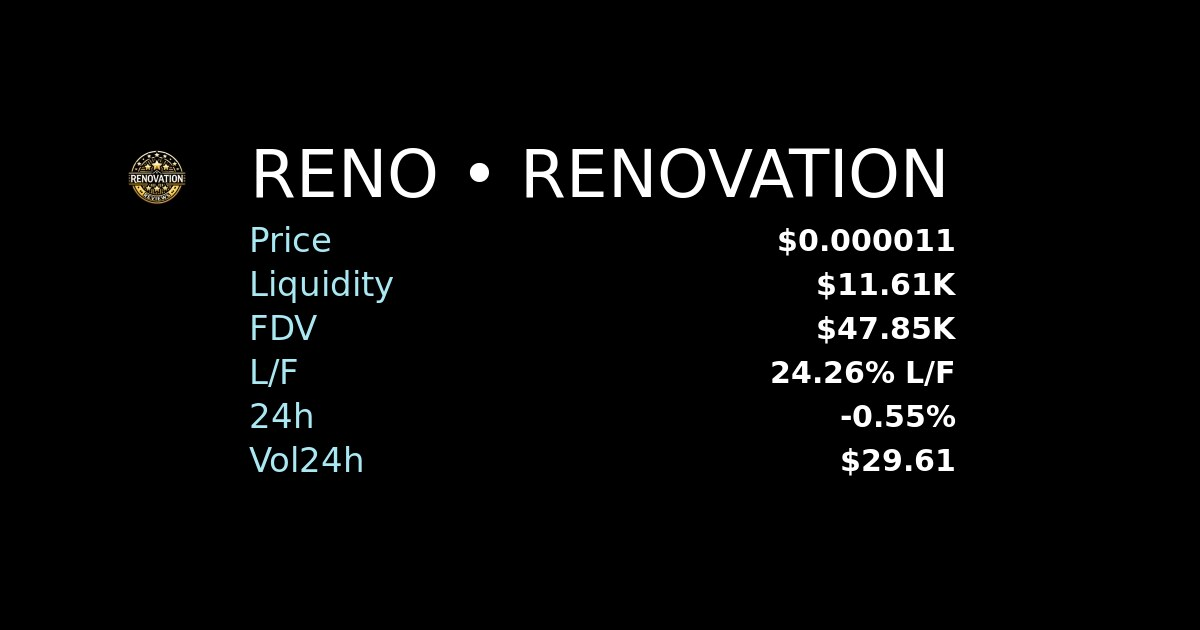
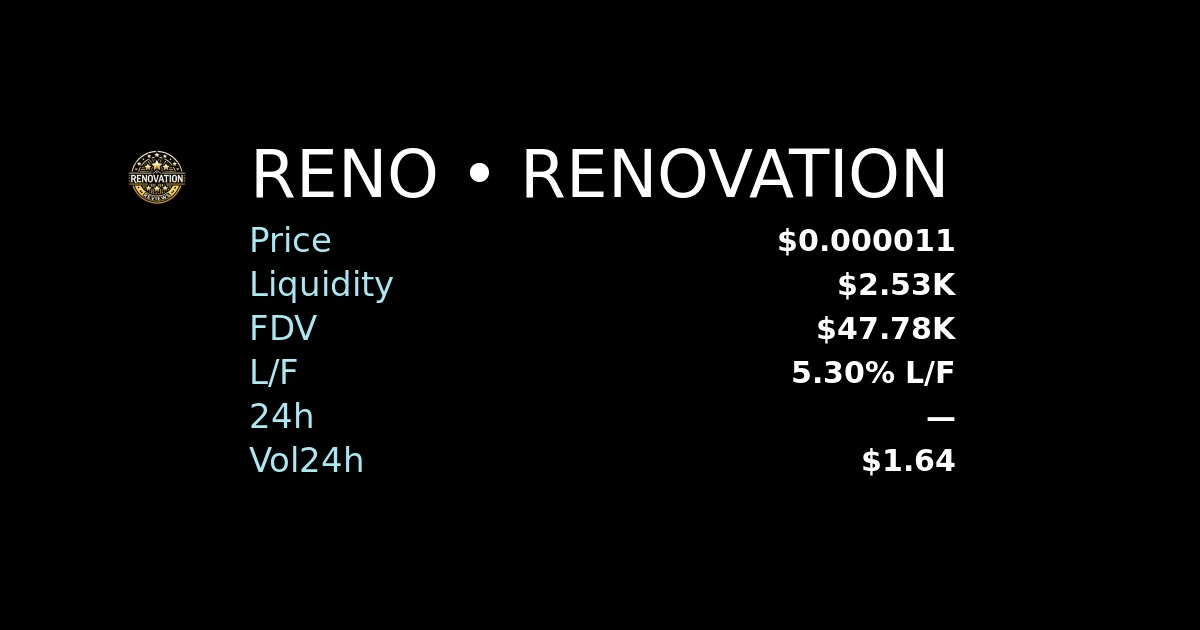
chore: update sitemap & token pages

Changed region(s): [[0.6783, 0.6333, 0.8017, 0.754], [0.6783, 0.4222, 0.7708, 0.5429], [0.6475, 0.573, 0.74, 0.6032]]

diff --git a/token/HBoNJ5v8g71s2boRivrHnfSB5MVPLDHHyVjruPfhGkvL/index.html b/token/HBoNJ5v8g71s2boRivrHnfSB5MVPLDHHyVjruPfhGkvL/index.html
@@ -4,14 +4,14 @@
     <meta charset="utf-8" />
     <meta name="viewport" content="width=device-width,initial-scale=1" />
     <title>PURPE on Solana</title>
-    <meta name="description" content="Purple Pepe • Price: $0.000058 • Liquidity: $1.29M" />
+    <meta name="description" content="Purple Pepe • Price: $0.000056 • Liquidity: $1.26M" />
     <meta name="author" content="builders-toronto" />
     <meta name="keywords" content="solana, memecoin, bonk, wif, dog, inu, pepe, cat, meme, ponk, samo, purry, purr, kitty, meow, woof, frog, snek, toad, bob, dino, monke, monkey, ape, corgi, floki, elon" />
 
     <!-- OG -->
     <meta property="og:type" content="website" />
     <meta property="og:title" content="PURPE on Solana" />
-    <meta property="og:description" content="Purple Pepe • Price: $0.000058 • Liquidity: $1.29M" />
+    <meta property="og:description" content="Purple Pepe • Price: $0.000056 • Liquidity: $1.26M" />
     <meta property="og:url" content="https://fdv.lol/token/HBoNJ5v8g71s2boRivrHnfSB5MVPLDHHyVjruPfhGkvL" />
     <meta property="og:image" content="https://fdv.lol/token/HBoNJ5v8g71s2boRivrHnfSB5MVPLDHHyVjruPfhGkvL/og.jpg" />
     <meta property="og:image:width" content="1200" />
@@ -21,7 +21,7 @@
     <!-- Twitter -->
     <meta name="twitter:card" content="summary_large_image" />
     <meta name="twitter:title" content="PURPE on Solana" />
-    <meta name="twitter:description" content="Purple Pepe • Price: $0.000058 • Liquidity: $1.29M" />
+    <meta name="twitter:description" content="Purple Pepe • Price: $0.000056 • Liquidity: $1.26M" />
     <meta name="twitter:image" content="https://fdv.lol/token/HBoNJ5v8g71s2boRivrHnfSB5MVPLDHHyVjruPfhGkvL/og.jpg" />
 
     <link rel="icon" type="image/png" href="/src/assets/images/icons/fdv.lol.ico" />
@@ -35,7 +35,7 @@
       "@type": "WebSite",
       "name": "PURPE on Solana",
       "url": "https://fdv.lol/token/HBoNJ5v8g71s2boRivrHnfSB5MVPLDHHyVjruPfhGkvL",
-      "description": "Purple Pepe • Price: $0.000058 • Liquidity: $1.29M",
+      "description": "Purple Pepe • Price: $0.000056 • Liquidity: $1.26M",
       "keywords": [
         "solana",
         "memecoin",

diff --git a/token/BrEiwuaLCuG7nG9bMuDg9ihp6sisvD6DCqNjrudHxmzg/index.html b/token/BrEiwuaLCuG7nG9bMuDg9ihp6sisvD6DCqNjrudHxmzg/index.html
@@ -4,14 +4,14 @@
     <meta charset="utf-8" />
     <meta name="viewport" content="width=device-width,initial-scale=1" />
     <title>RENO on Solana</title>
-    <meta name="description" content="RENOVATION • Price: $0.000011 • Liquidity: $11.61K" />
+    <meta name="description" content="RENOVATION • Price: $0.000011 • Liquidity: $2.53K" />
     <meta name="author" content="builders-toronto" />
     <meta name="keywords" content="solana, memecoin, bonk, wif, dog, inu, pepe, cat, meme, ponk, samo, purry, purr, kitty, meow, woof, frog, snek, toad, bob, dino, monke, monkey, ape, corgi, floki, elon" />
 
     <!-- OG -->
     <meta property="og:type" content="website" />
     <meta property="og:title" content="RENO on Solana" />
-    <meta property="og:description" content="RENOVATION • Price: $0.000011 • Liquidity: $11.61K" />
+    <meta property="og:description" content="RENOVATION • Price: $0.000011 • Liquidity: $2.53K" />
     <meta property="og:url" content="https://fdv.lol/token/BrEiwuaLCuG7nG9bMuDg9ihp6sisvD6DCqNjrudHxmzg" />
     <meta property="og:image" content="https://fdv.lol/token/BrEiwuaLCuG7nG9bMuDg9ihp6sisvD6DCqNjrudHxmzg/og.jpg" />
     <meta property="og:image:width" content="1200" />
@@ -21,7 +21,7 @@
     <!-- Twitter -->
     <meta name="twitter:card" content="summary_large_image" />
     <meta name="twitter:title" content="RENO on Solana" />
-    <meta name="twitter:description" content="RENOVATION • Price: $0.000011 • Liquidity: $11.61K" />
+    <meta name="twitter:description" content="RENOVATION • Price: $0.000011 • Liquidity: $2.53K" />
     <meta name="twitter:image" content="https://fdv.lol/token/BrEiwuaLCuG7nG9bMuDg9ihp6sisvD6DCqNjrudHxmzg/og.jpg" />
 
     <link rel="icon" type="image/png" href="/src/assets/images/icons/fdv.lol.ico" />
@@ -35,7 +35,7 @@
       "@type": "WebSite",
       "name": "RENO on Solana",
       "url": "https://fdv.lol/token/BrEiwuaLCuG7nG9bMuDg9ihp6sisvD6DCqNjrudHxmzg",
-      "description": "RENOVATION • Price: $0.000011 • Liquidity: $11.61K",
+      "description": "RENOVATION • Price: $0.000011 • Liquidity: $2.53K",
       "keywords": [
         "solana",
         "memecoin",
